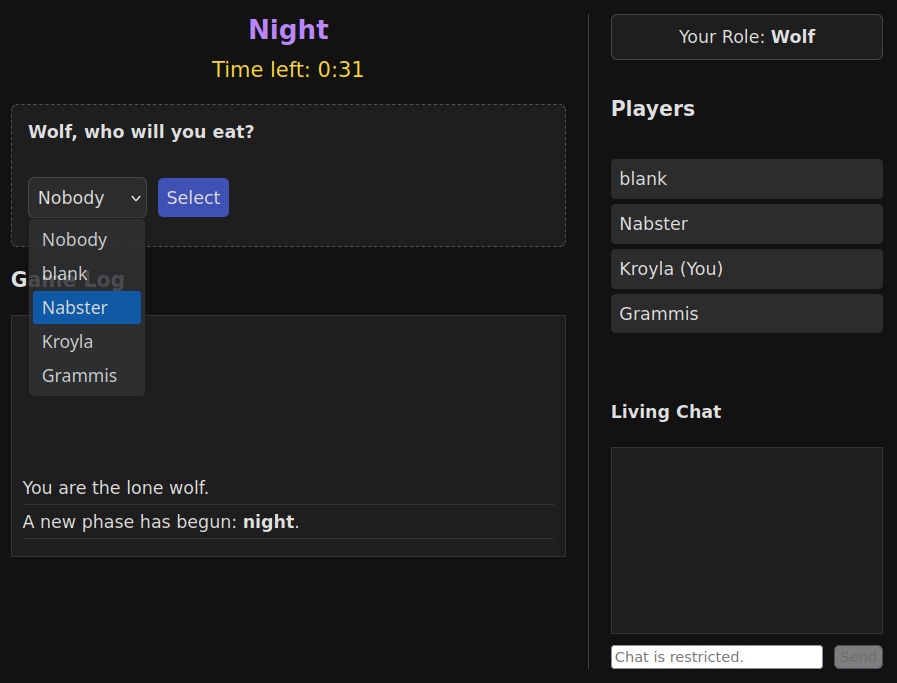
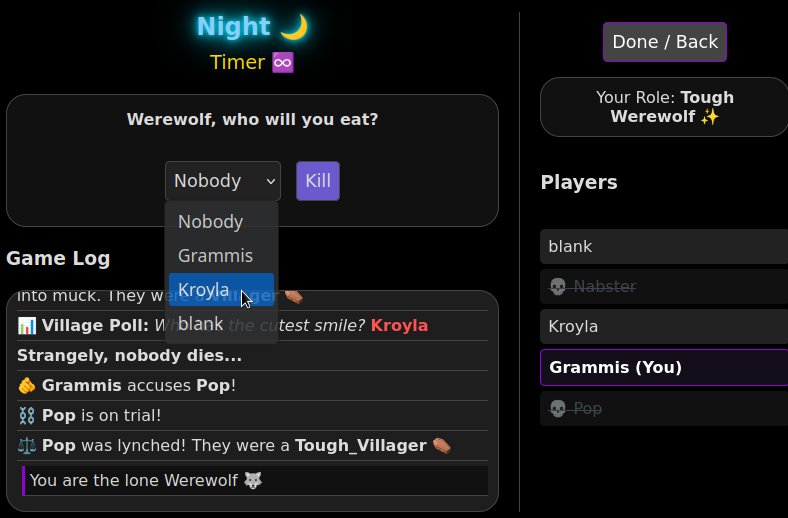
4.9.2 update README.md

diff --git a/README.md b/README.md
@@ -1,27 +1,36 @@
-# **Werewolves - A Flask-based Multiplayer Game**
+# **Werewolves Game**
 
-A self-hosted real-time multiplayer social deduction game inspired by Werewolves
-and Mafia. This web application is built primarily with Python, using the Flask
-framework and WebSockets for live player interaction. I made this game to
-practice using an LLM. [Install](#setup-and-running-the-project)
+A feature-rich, self-hosted real-time multiplayer social deduction game. Built
+with Python (Flask) and WebSockets, this project has evolved from a simple
+experiment into a fully playable party game supporting 24 unique roles, mobile
+"Pass-and-Play" support, and complex win conditions. [Install Instructions](#setup-and-running-the-project)
 
 ## **Description**
 
 This project is a web-based implementation of the classic party game Werewolves.
 Players join a lobby using a unique game code, are secretly assigned roles
-(Villager, Wolf, or Seer), and then enter a cycle of "night" and "day" phases.
+(Villager, Wolf, or Seer), and then cycle through "night" and "day" phases.
 During the night, wolves secretly choose a player to eliminate, and the seer can
 investigate a player's role. During the day, players discuss and vote to lynch
-someone they suspect is a wolf. The game is designed to be played alongside a
-separate video or voice chat (like Jitsi Meet or Zoom), where the real-time
-discussion and deception take place.
+someone they suspect is a wolf. The game supports complex interactions: lovers linked by Cupid, chain-reaction deaths (Honeypot/Hunter), solo-winning roles (Serial Killer/Fool), and "Ghost Mode" where dead players can still influence the outcome.
+
+The game is designed to be played alongside a separate video or voice chat (like Jitsi Meet or Zoom), where the real-time discussion and deception take place OR in person using one to several phones in **Pass-and-Play** mode. 
 
 ## **Core Features**
 
-<img src="lobby.png" width="50%" align="right" />
+<img src="lobby.jpg" width="50%" align="right" />
 
-- **Game Lobby:** Players join a single game instance using a shared game code.
-- **Admin Controls:** The first player to join becomes the admin and has the
+- **📱 Pass-and-Play Mode:** Play with a single phone (or several) passed around the room.
+  The UI guides players to confirm their identity before revealing their private
+  role screen.
+- **👻 Ghost Mode:** Dead players aren't just spectators. If enabled, ghosts
+  have a small chance to participate during accusation and lynch vote phase.
+- **🎭 24 Unique Roles:** Including complex roles like the **Alpha Werewolf**,
+  **Prostitute**, **Lawyer**, and **Serial Killer**.
+- **🏆 Solo Win Conditions:** Neutral roles like the **Monster**, **Fool**, or
+  **Demented Villager** can win alone, ignoring team allegiances.
+
+- **Robust Admin Controls:** The first player to join becomes the admin and has the
   ability to:
   - Exclude players from the lobby.
   - Start the game once enough players have joined (minimum of 4).
@@ -29,34 +38,28 @@ discussion and deception take place.
     Vote phases.
   - Set a new game code.
   - Set admin only chat.
+  - Turn on **Pass-and-Play** and **Ghost Mode**.
 - **Persistent Sessions:** Players can refresh their browser or momentarily
   disconnect without losing their place in the game (although timer might be
   incorrect)
-- **Dynamic Role Assignment:** At the start of the game, players are randomly
-  and secretly assigned one of three roles:
-  - **Villager:** Must work to find and eliminate the wolves.
-  - **Wolf:** Must work with other wolves to eliminate villagers until they have
-    the majority.
-  - **Seer:** A special villager who can investigate one player's role each
-    night.
 - **Live Game Updates and Chat:** The UI updates in real-time for all players
   using WebSockets, showing phase changes, player status, game chat, and game
   log events.
+- **Dynamic Role Assignment:** At the start of the game, players are randomly
+  and secretly assigned roles.
+  - "Random Roles" button calculates a balanced setup based on role weights
+    (positive for villagers, negative for wolves).
 - **Automated Game Loop & Win Conditions:** The game automatically cycles
   through phases. After each death (from a wolf kill, a lynch vote) the system
   checks for win conditions:
   - **Villagers Win:** When all wolves have been eliminated.
   - **Wolves Win:** When the number of living wolves is equal to or greater than
     the number of living non-wolves.
-- **Game Over & Rematch System:**
+  - **🏆 Solo Win Conditions:** Neutral roles like the **Monster**, **Fool**, or
+  **Demented Villager** can win alone, ignoring team allegiances.
   - When a win condition is met, a "Game Over" screen is displayed to all
     players, showing the winning team, the reason for victory, and a list of all
     players and their final roles.
-  - From the Game Over screen, players can chat and vote to "Return to Lobby".
-    Once a majority is reached, the game state is reset, and all players are
-    automatically redirected to the lobby to start a fresh game with the same
-    group.
-- **Dark Mode UI:** A clean, modern dark theme for comfortable gameplay.
 
 ## **Game Phases**
 
@@ -66,11 +69,7 @@ discussion and deception take place.
 
   - Phase ends when either the timer runs out OR all Wolves and the Seer have
     submitted their actions.
-  - **Wolves:** Secretly vote to kill a player. A kill only succeeds if all
-    living wolves vote unanimously for the same player.
-  - **Seer:** Investigates one player's role each night. The result is shown
-    only to the seer.
-  - **Villagers:** Can subtly cast suspision on a player.
+
   - After the night's actions, the game checks if a winning condition has been
     met before proceeding.
 
@@ -79,6 +78,7 @@ discussion and deception take place.
   - Phase ends when either the timer runs out OR all living players have made an
     accusation.
   - Living players vote to accuse one person.
+  - Ghost have a 25% chance to accuse.
   - A live tally of accusations is displayed next to each player's name.
   - Tie-Breaking Logic: If there is a tie for the most accused player:
     - If the tie is between only two players, no lynch vote occurs.
@@ -90,7 +90,7 @@ discussion and deception take place.
   - If a single player has the most accusations, a trial begins.
   - Phase ends when either the timer runs out OR all living players have voted.
   - Living players vote "Yes" or "No" to lynch the accused player. A majority
-    "Yes" vote is required.
+    "Yes" vote is required. Ghost have a 10% chance to vote during Lynch Vote.
   - If the timer expires, any non-voting player defaults to a "No" vote.
   - A detailed summary of who voted "Yes" and "No" is displayed in the game log.
   - After the vote, the game checks if a winning condition has been met before
@@ -100,16 +100,46 @@ discussion and deception take place.
   early (minimum 30 seconds) and start the accusation process. If a majority
   choose sleep, the game transitions to night.
 
+## **Roles**
+The game now supports **24 unique roles** divided into teams:
+<img src="game_over.png" width="50%" align="right"/>
+
+### 🌻 The Village (Good)
+
+- **Villager:** No powers. Must work together to find and eliminate all the Werewolves.
+- **Seer / Random Seer:** Investigates one player's role each night.
+- **Bodyguard:** Protects one player from death at night.
+- **Witch:** Has one **Heal** potion and one **Poison** potion.
+- **Hunter:** If killed, shoots a target of their choice.
+- **Cupid:** Links two lovers. If one dies, the other dies.
+- **Mayor:** Their vote counts as tie-breaker. Can appoint a successor.
+- **Prostitute:** Blocks a player's ability by visiting them.
+- **Lawyer:** Makes a client immune to Lynching the next day.
+- **Revealer:** Can instantly kill a Wolf, but dies if they reveal a Villager.
+- **Martyr:** Grants a "2nd Life" (armor) to someone upon dying.
+- **Tough Villager:** Survives the first attempt on their life.
+- **Wild Child:** Picks a role model. If the model dies, becomes a Werewolf.
+
+### 🐺 The Pack (Evil)
+
+- **Werewolf:** Must work with other wolves to eliminate villagers until they have
+    the majority.
+- **Alpha Werewolf:** Wins only if they are the last wolf standing.
+- **Backlash Werewolf:** A Wolf that acts like a Hunter if killed.
+- **Tough Werewolf:** A Wolf with armor (survives one hit).
+- **Sorcerer:** Works with wolves. Can find Seers/Witches but cannot kill.
+
+### 🎭 Neutral & Solo (Chaos)
+
+- **Serial Killer:** Kills every night. Wins if they are the last survivor.
+- **Fool:** Wins if they get themselves Lynched.
+- **Demented Villager:** Appears good, but wins if the village is destroyed.
+- **Monster:** Immune to Wolf attacks. Wins if left alone with 1 Wolf.
+- **Honeypot:** If killed, the killer dies (Retaliation).
+
 <img src="game_screen.png" width="80%" align="center"/>
 
-## **Tech Stack**
-
-- **Backend:** Python 3.10 - Flask, gunicorn, gevent
-- **Real-time Communication:** Flask-SocketIO
-- **Frontend:** Jinja2 for server-side templating, with vanilla HTML, CSS, and
-  JavaScript for client-side interactivity.
-
-## **Setup and Running the Project**
+## **Setup and Running**
 
 To run this project locally, follow these steps:
 
@@ -141,13 +171,13 @@ To run this project locally, follow these steps:
         - macOS / Linux: `python3 -m venv venv` followed by `source venv/bin/activate`
 ```
 
-3.  **Install the required dependencies:**
+3.  **Install Dependencies:**
 
     ```bash
     pip install Flask Flask-SocketIO python-uuid python-dotenv
     ```
 
-4.  **Run the Flask application:**
+4.  **Run the App:**
 
     ```bash
     FLASK_APP=app.py flask run -h 0.0.0.0
@@ -164,19 +194,4 @@ To run this project locally, follow these steps:
 5.  **Access the game:** Open your web browser and go to game web address set in
     `.env.werewolves CORS_ALLOWED_ORIGINS`. Defaults: `http://127.0.0.1:5000`.
     Open multiple tabs or browsers to simulate different players joining the
-    game. Initial Game Code is `W`
-
-## **Project Roadmap**
-
-With the core gameplay loop complete, future development will focus on adding
-depth and improving the user experience.
-
-- **Future Enhancements (Planned):**
-  - **Additional Roles:** Introduce new roles like the Doctor, Hunter, or Witch.
-  - **Enhanced UI/UX:** Improve the user interface with more visual cues,
-    animations, and sound effects for a more immersive experience. during
-    certain phases.
-  - **Spectator Mode:** Allow users to join a game as a non-participating
-    spectator.
-  - **Single Phone Mode:** Allow a game to be guided by moderator and passing
-    around a single phone.
+    game. Initial Game Code is `W` and first player to join is **Admin**.
